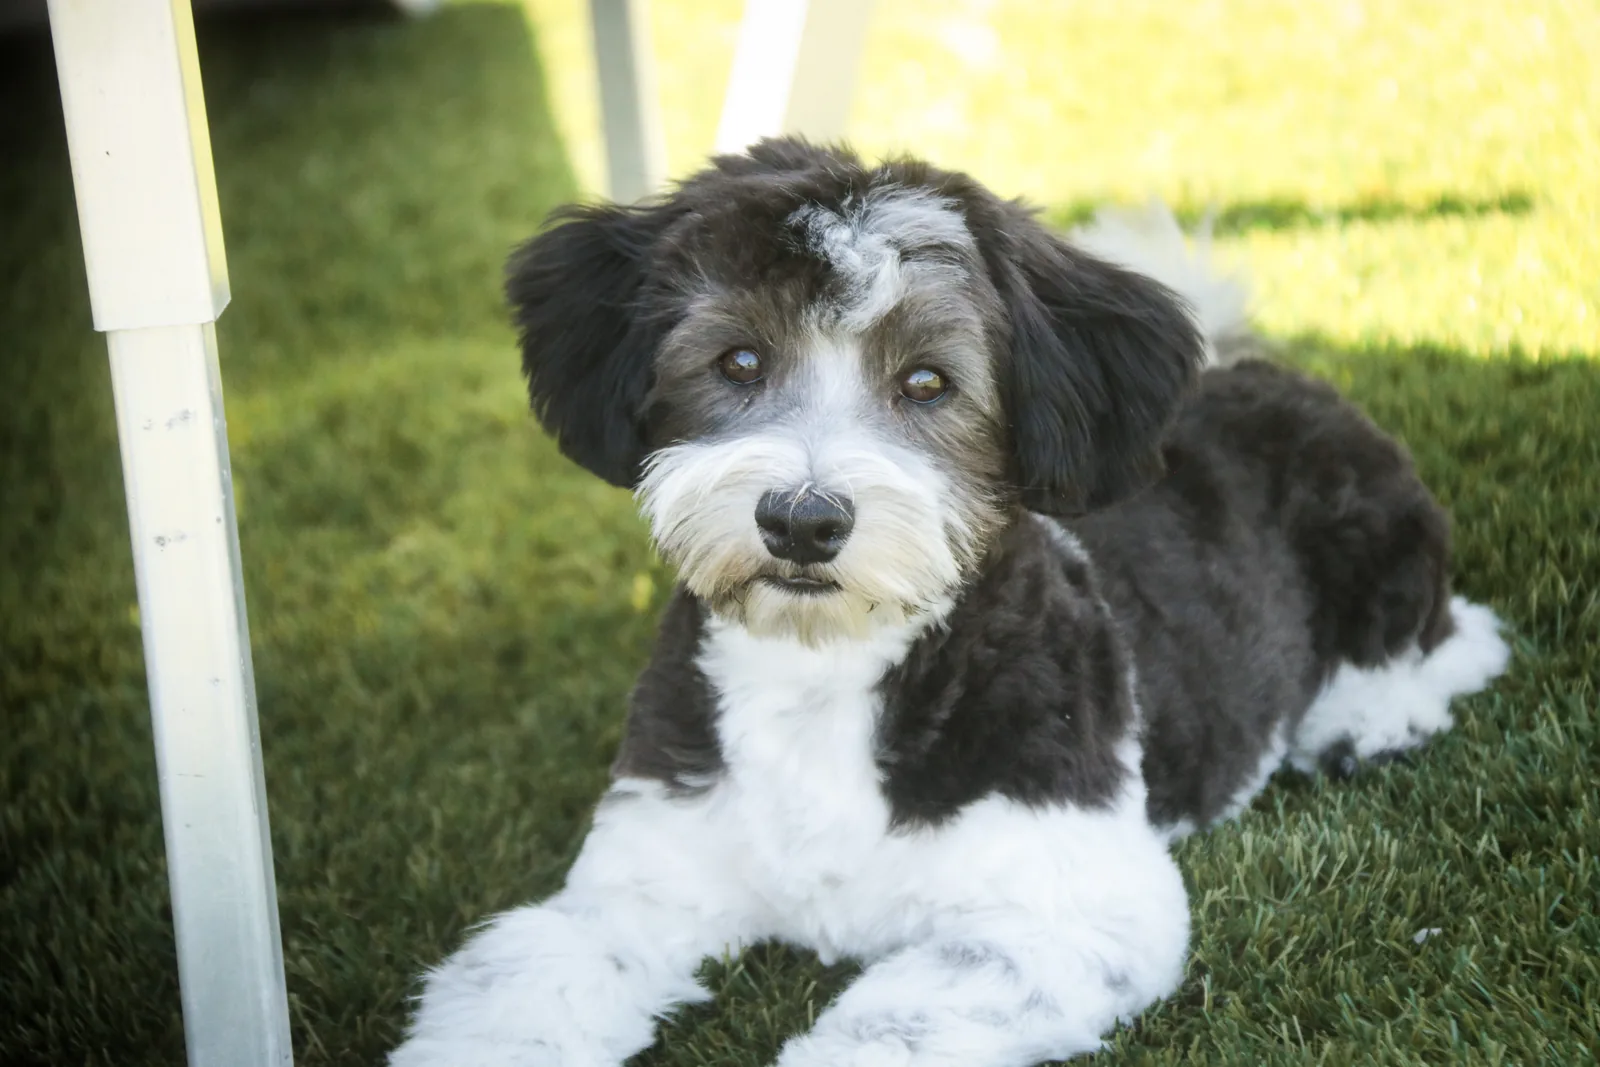
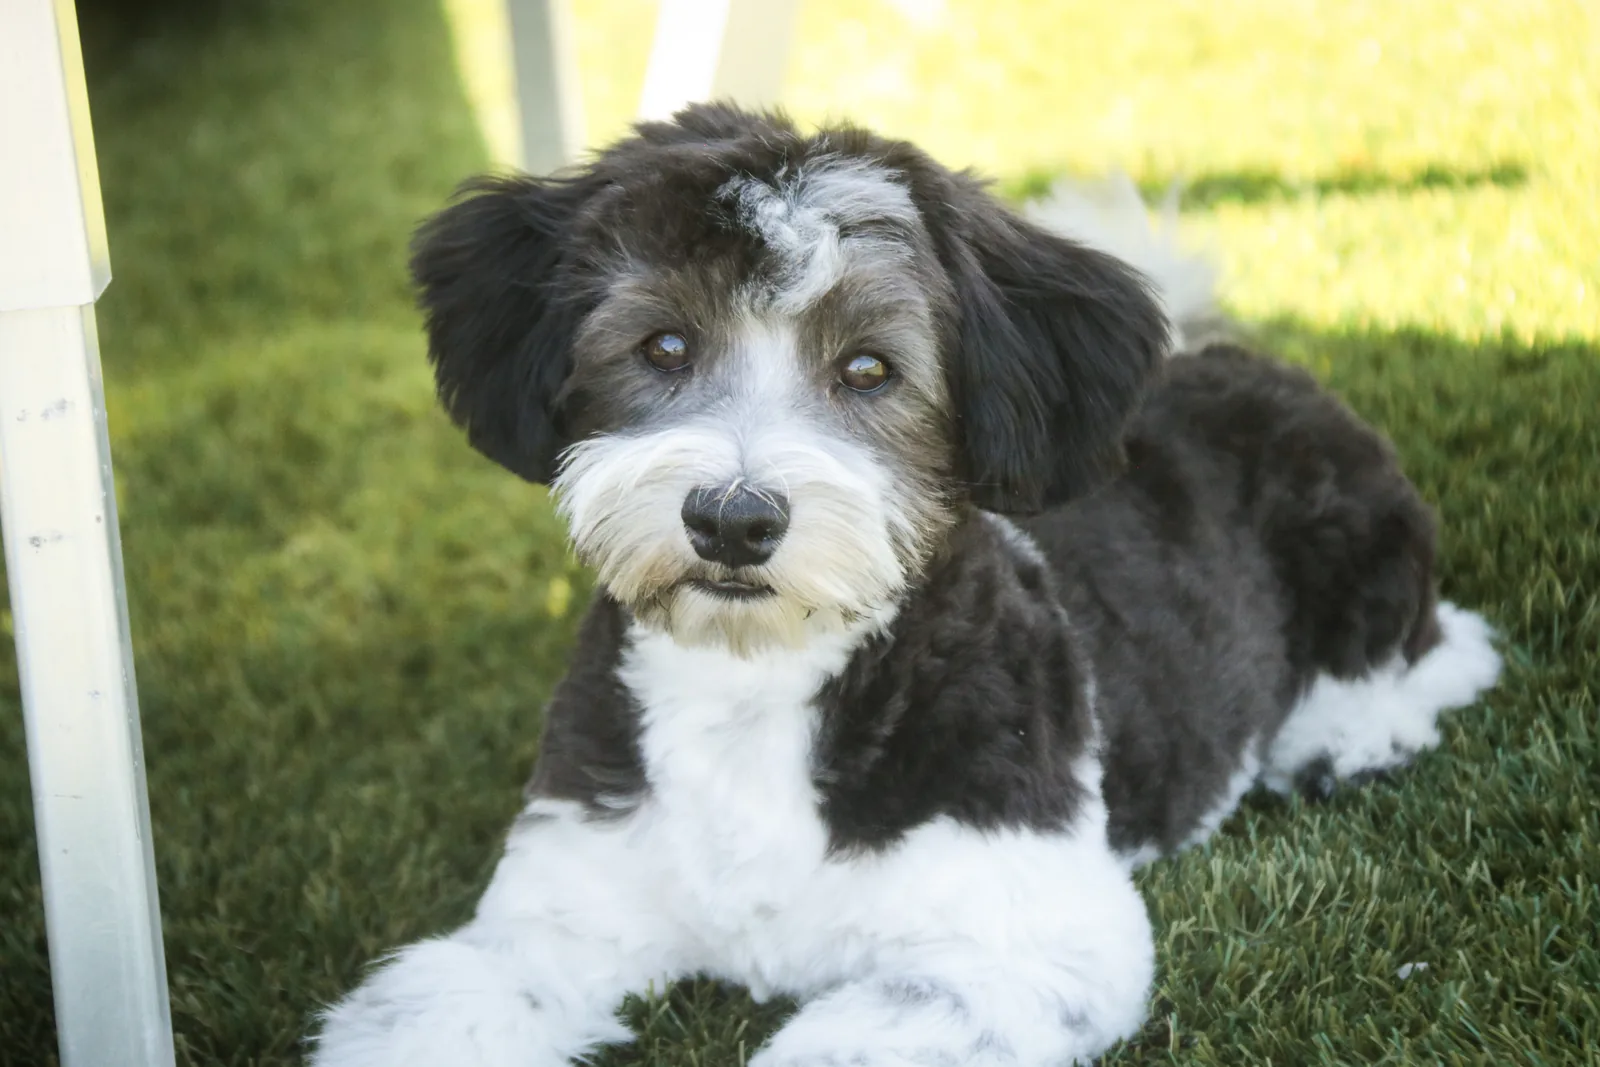
Center the Bernese, Great Dane, Havanese, Labrador, Papillon and Saint Bernard photos and lower the Maltese crop
The Great Dane, Havanese, Labrador, Papillon and Saint Bernard photos already had the card's shape, so a focus point cannot move the dog. Each is now cut from the original around the dog, and the Bernese focus moves to the middle. The Maltese keeps its puppy photo with a focus point that keeps the head in the frame.

diff --git a/app/ops/breed_photos.py b/app/ops/breed_photos.py
@@ -15,7 +15,9 @@ REPO = os.path.abspath(os.path.join(HERE, '..', '..'))
 SRC = os.path.join(REPO, '_harvest', 'webedits')
 OUT = os.path.join(REPO, 'img', 'breeds')
 
-# slug: (original file, focus x, focus y)
+# slug: (original file, focus x, focus y[, crop]). crop is (cx, cy, scale): the part of the original to keep, centered on
+# (cx, cy) as fractions and scale times its width and height, for a photo whose dog sits off-center in a frame that already
+# has the card's shape. The focus point is then read against the cropped photo.
 PHOTOS = {
     'doberman-pinscher': ('20.jpg', .38, .55),
     'french-bulldog': ('1.jpg', .52, .55),
@@ -27,18 +29,18 @@ PHOTOS = {
     'cavalier-king-charles-spaniel': ('9.jpg', .50, .55),
     'pembroke-welsh-corgi': ('9_1.jpg', .60, .55),
     'miniature-dachshund': ('14.jpg', .55, .60),
-    'great-dane': ('8 - Copy.jpg', .55, .50),
+    'great-dane': ('8 - Copy.jpg', .47, .50, (.41, .52, .88)),
     'shih-tzu': ('shih tzu1.jpeg', .55, .60),
     'cocker-spaniel': ('ChatGPT Image Oct 30, 2026, 05_06_49 PM-4.png', .55, .50),
     'english-bulldog': ('ChatGPT Image Oct 30, 2026, 05_06_48 PM-3.png', .53, .55),
-    'bernese-mountain-dog': ('1_1.jpg', .55, .45),
+    'bernese-mountain-dog': ('1_1.jpg', .52, .45),
     'boston-terrier': ('ChatGPT Image Oct 30, 2026, 05_06_47 PM-2.png', .55, .50),
     'golden-retriever': ('IMG_1830.jpg', .72, .55),
-    'papillon': ('10.jpg', .50, .50),
+    'papillon': ('10.jpg', .55, .50, (.62, .47, .85)),
     'miniature-schnauzer': ('ChatGPT Image Oct 30, 2026, 05_06_46 PM-1.png', .52, .50),
-    'saint-bernard': ('Benji1.jpg', .60, .45),
-    'labrador-retriever': ('Jo Jo 3.jpg', .50, .31),
-    'havanese': ('4.jpg', .50, .55),
+    'saint-bernard': ('Benji1.jpg', .58, .45, (.56, .50, .88)),
+    'labrador-retriever': ('Jo Jo 3.jpg', .50, .25, (.57, .50, .86)),
+    'havanese': ('4.jpg', .53, .55, (.55, .50, .92)),
 }
 
 def window(img, ratio, fx, fy):
@@ -53,8 +55,14 @@ def window(img, ratio, fx, fy):
 
 def main():
     table = {}
-    for slug, (f, fx, fy) in PHOTOS.items():
+    for slug, (f, fx, fy, *crop) in PHOTOS.items():
         im = ImageOps.exif_transpose(Image.open(os.path.join(SRC, f))).convert('RGB')
+        if crop:
+            cx, cy, k = crop[0]
+            cw, ch = round(im.width * k), round(im.height * k)
+            x = min(max(round(cx * im.width - cw / 2), 0), im.width - cw)
+            y = min(max(round(cy * im.height - ch / 2), 0), im.height - ch)
+            im = im.crop((x, y, x + cw, y + ch))
         for width in (800, 1600):
             c = im.copy()
             if c.width > width:
